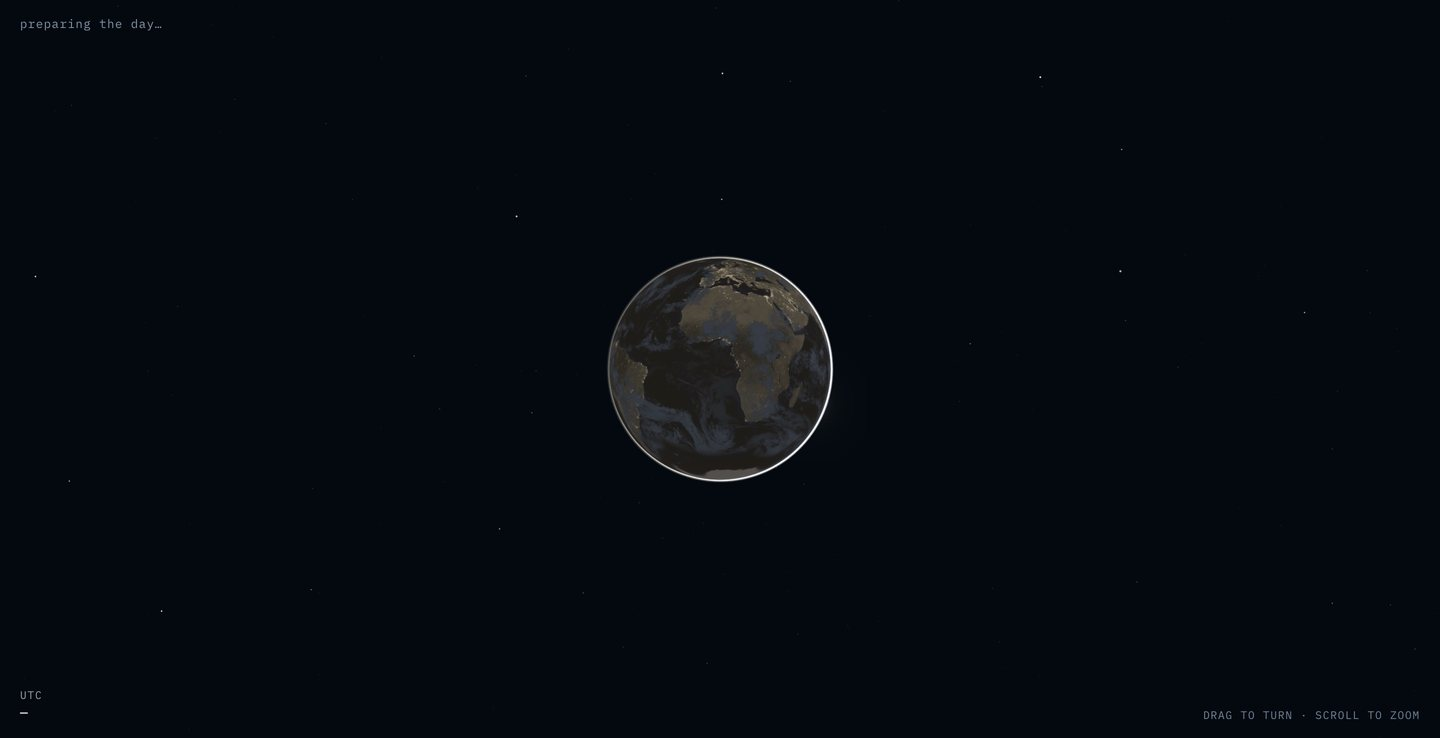
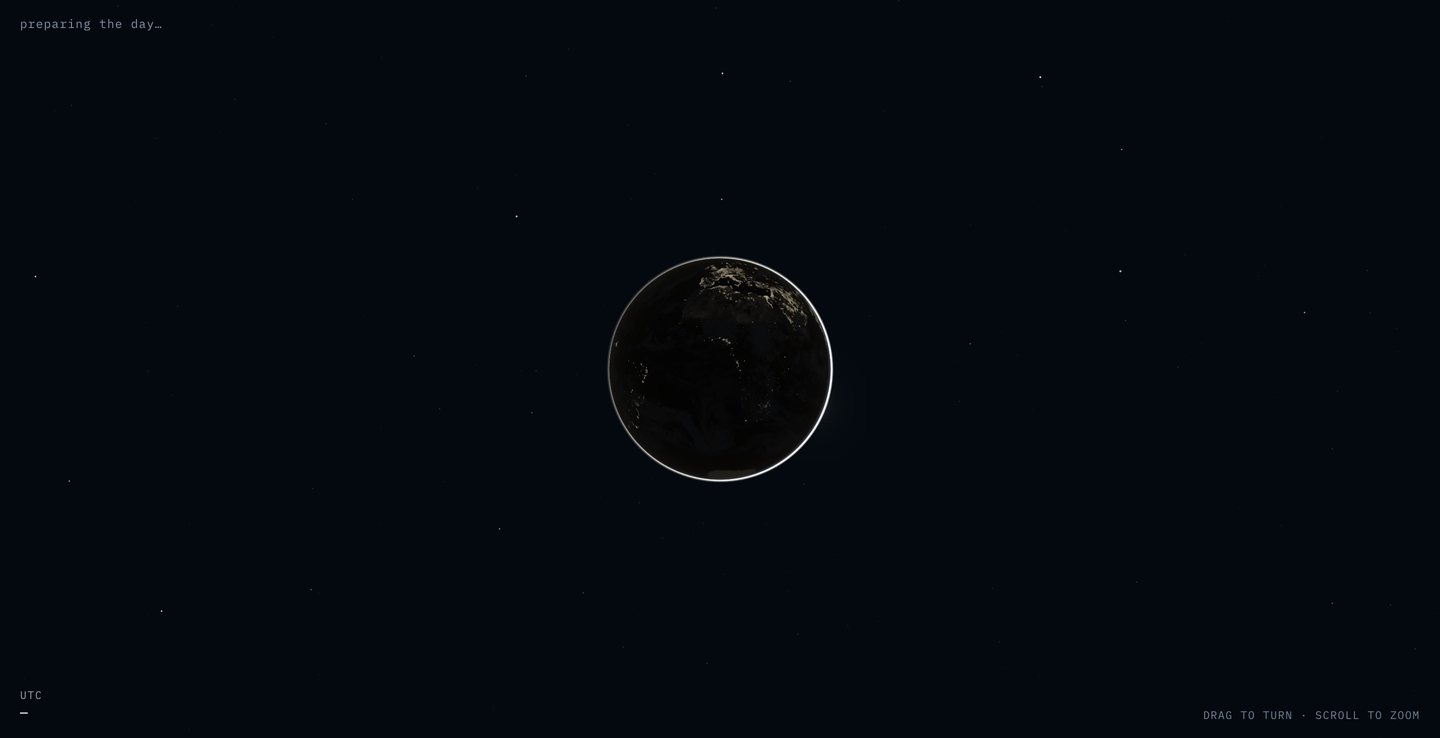
globe: a black night side — VIIRS floor knee'd out of the city lights, night ground to ~5/255, night cloud ~12/255 by starlight scaled by moon phase; arrival sheet redone

Changed region(s): [[0.4062, 0.3428, 0.5938, 0.6545]]

diff --git a/site/globe/index.html b/site/globe/index.html
@@ -400,7 +400,9 @@
         float day=smoothstep(-0.10,0.12,mu);
         float dusk=smoothstep(0.30,-0.06,mu)*smoothstep(-0.22,0.0,mu);   // a band either side of the terminator
         vec3 base=texture2D(uBase,vUv).rgb;
-        float lights=texture2D(uLights,vUv).r;
+        // VIIRS carries a floor that is not city light (sea 4/255, the Amazon 9, the Sahara 28: moonlit ground and airglow in the
+        // composite); it painted the whole night side tan. A soft knee keeps the cities and drops the floor.
+        float lights=texture2D(uLights,vUv).r; lights*=smoothstep(0.10,0.22,lights);
         float water=step(base.r*1.25,base.b)*step(base.r,0.30);
         float lat=(vUv.y-0.5)*3.14159265;
         // cloud (opacity, top height), and the cloud toward the sun for its shadow on the ground
@@ -457,11 +459,12 @@
         dayCol+=vec3(1.0,0.95,0.85)*spec*(1.0-cov);
         dayCol*=1.0-0.5*clamp((shadow-0.01)/0.9,0.0,1.0)*(1.0-cov);
         dayCol*=att;
-        // ground by night: a faint blue from the sky, city lights through thin cloud, and the Moon: a lift of the ground by its
-        // phase and a cool glint off the sea (uMoonLight is 0 at new moon, 1 at full)
+        // ground by night: from orbit it is black but for the cities, so a whisper of blue from the sky (~5/255 on screen — the
+        // gamma makes 0.0005 linear read as that), city lights through thin cloud, and the Moon: a lift of the ground by its
+        // phase (10/255 at full) and a cool glint off the sea (uMoonLight is 0 at new moon, 1 at full)
         float ml=max(dot(n,uMoon),0.0)*uMoonLight*(1.0-day);
-        vec3 nightCol=base*vec3(0.020,0.027,0.046)+vec3(1.0,0.82,0.55)*lights*0.85*(1.0-cov*0.85)+vec3(0.35,0.42,0.55)*cov*0.030;
-        nightCol+=base*vec3(0.055,0.065,0.085)*ml*(1.0-cov);
+        vec3 nightCol=base*vec3(0.0010,0.0014,0.0024)+vec3(1.0,0.82,0.55)*lights*0.85*(1.0-cov*0.85)+vec3(0.35,0.42,0.55)*cov*0.0015;
+        nightCol+=base*vec3(0.012,0.014,0.018)*ml*(1.0-cov);
         vec3 rm=reflect(-uMoon,nw);
         nightCol+=vec3(0.75,0.85,1.0)*pow(max(dot(rm,v),0.0),240.0)*water*0.10*ml*(1.0-cov);
         vec3 ground=mix(nightCol, dayCol, day);
@@ -476,7 +479,7 @@
         // (opacity falling along gdir) forward-scatters: a warm-white rim, strongest on middling cover
         float lining=smoothstep(0.26,0.0,abs(mu))*clamp(slope*3.0,0.0,1.0)*cov*(1.0-cov)*4.0;
         lit+=vec3(1.0,0.93,0.82)*lining*0.30*smoothstep(-0.16,0.04,mu);
-        vec3 cloudNight=vec3(0.30,0.36,0.48)*0.16*(1.0+2.5*ml);
+        vec3 cloudNight=vec3(0.30,0.36,0.48)*0.0032*(1.0+12.0*ml);            // thick night cloud ~12/255 by starlight, ~40 under a full moon
         vec3 col=ground*(1.0-cov)+mix(cloudNight*cov, lit, dayC);
         // the air: what the sun scatters into the view ray on its way here (bluer and paler toward the limb, zero at night).
         // The model's shell is 20x too thick, so its haze is weighted toward the limb: the centre of the disc keeps its contrast

diff --git a/.claude/handoffs/2026-09-19-globe-intro.md b/.claude/handoffs/2026-09-19-globe-intro.md
@@ -112,3 +112,14 @@ width there) — a portrait rest distance of ~5.5 would show the sunrise; that i
 (c) The night side is the VIIRS texture's tan glow (see the sky report), which makes the dark start browner than it should
 be; a high-pass on `lights_4096.jpg` would make the arrival's first frame bluer and quieter. (d) The `UTC —` clock reads a
 dash during the arrival; it could show the day's first timestamp.
+
+### Addendum (earthai-46 review: the night side was too bright)
+The tan came from `lights_4096.jpg` itself: VIIRS carries a floor that is not city light (sea 4/255, the Amazon 9, the Sahara
+28) and the shader painted it at 0.85. Now: a soft knee on the lights (`smoothstep(0.10,0.22)`, cities untouched), the night
+ground down to a whisper of blue (0.001 linear ≈ 5/255 on screen), night cloud 12/255 where thick scaled to ~40 under a full
+moon, moonlit ground 10/255 at full, the terminator band and the airglow line as they were, the day side untouched.
+Measured at the night_rest view (lon −100, lat 20, dist 4.3, frame 60 = 6 Sep 10:00Z, `#nointro`, 100 px patches, 0–255):
+disc centre over the US (cities) 75 → 32; Pacific off Mexico 57 → 10.5; south Pacific 47 → 8; northern Canada 73 → 17.
+Plate: `docs/globe-2026-09-19/night_rest_before_after.jpg` (top before, bottom after). The arrival's exposure ramp keeps the
+night near black at 100% by construction (it is a multiplier). Sheet and plates redone. A warm run this time did get the
+opening ready at 1.7 s: the arrival then ran its full 6.5 s (215 → 6,732 ms) with one 67 ms gap at 1.35 s (the first present).
